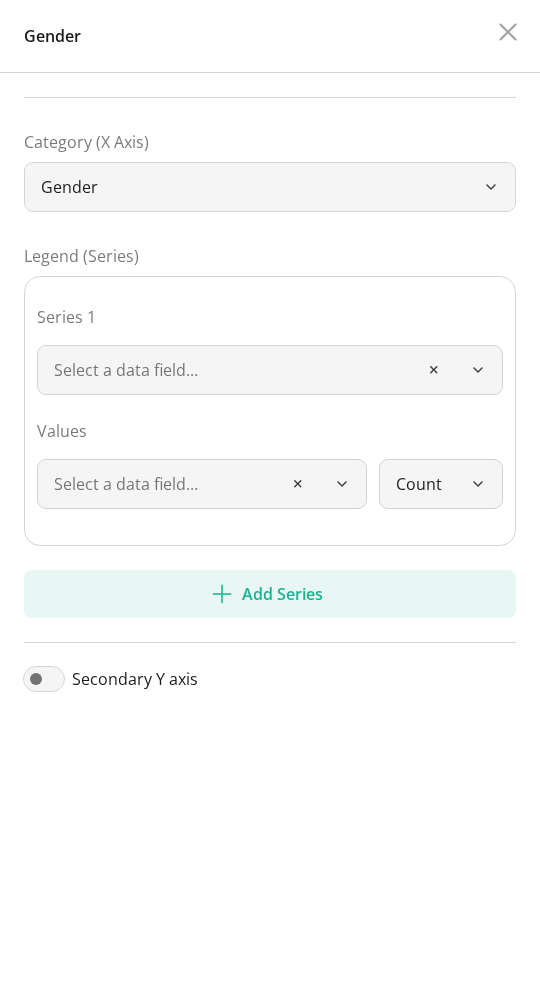
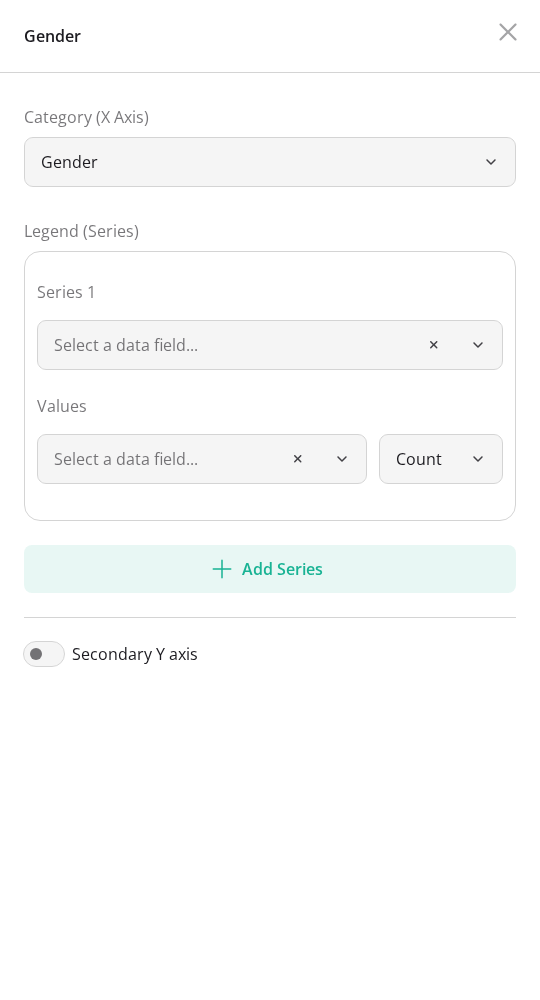
V3 Sidepanel contains extra separator (#742)
* V3 Sidepanel contains extra separator
Fixes #737

* V3 Sidepanel contains extra separator - Updated etalon
Fixes #737

---------

Pull request: V3 Sidepanel contains extra separator
Fixes #737

diff --git a/src/pivot.ts b/src/pivot.ts
@@ -347,6 +347,7 @@ export class PivotModel extends HistogramModel {
     type?: string
   ) {
     super(null, data, options, type || "pivot");
+    this._supportSelection = false;
     if(!Array.isArray(this.questions)) {
       this._questionDefinition = this.questions;
       this.questions = [];

diff --git a/tests/pivot.test.ts b/tests/pivot.test.ts
@@ -52,6 +52,7 @@ test("default settings", async () => {
 
   expect(pivot["isSupportMissingAnswers"]()).toBeFalsy();
   expect(pivot["isSupportAnswersOrder"]()).toBeFalsy();
+  expect(pivot.supportSelection).toBeFalsy();
 
   const values = pivot.getValues();
   const labels = pivot.getLabels();